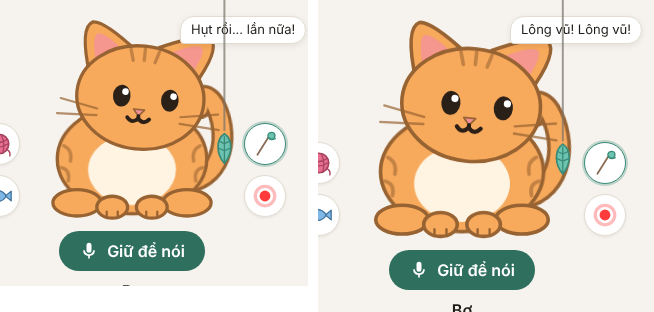
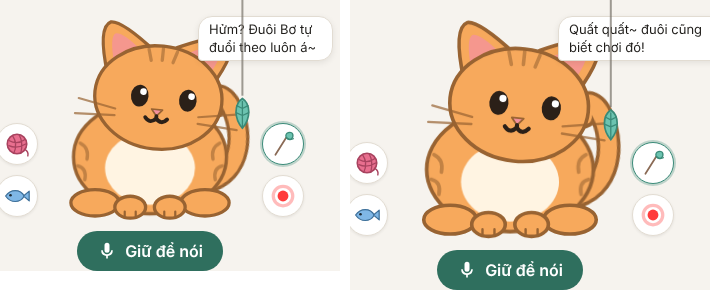
Rà soát giai đoạn 84: chụp ảnh quất đuôi, thêm việc giai đoạn 85
Claude-Session: https://claude.ai/code/session_01L1M6Uc55Avbx5hjvRBbRUB

diff --git a/scripts/chup_meo.py b/scripts/chup_meo.py
@@ -24,7 +24,7 @@ from app import config  # noqa: E402
 TRANG_THAI = config.EMOTIONS + ["ngu"]
 # (Ảnh chụp cả trang cho PROGRESS.md đừng đặt tên meo-<tư thế>.png: script này sẽ ghi đè.)
 TRANG_THAI_NHO = ["ngap", "liem", "cho", "lan", "mung", "bep", "hong", "nghe", "nguoc-long", "dap-tay", "rua-mat", "chong-mat",
-                  "hat-xi", "boop", "nung-ma-trai", "be", "dinh-sua", "rinh", "vo-rinh", "nhoi", "chop-cham", "quo-trai", "om-len", "ngo-chan", "khoe", "theo-len", "ke-ke", "nhot-long", "ngoai-duoi"]
+                  "hat-xi", "boop", "nung-ma-trai", "be", "dinh-sua", "rinh", "vo-rinh", "nhoi", "chop-cham", "quo-trai", "om-len", "ngo-chan", "khoe", "theo-len", "ke-ke", "nhot-long", "ngoai-duoi", "quat-duoi"]
 
 
 def ban_ngay(pg):

diff --git a/PROGRESS.md b/PROGRESS.md
@@ -5,9 +5,10 @@
 - **Góp ý:** ghi vào file `FEEDBACK.md`, phiên sau Claude sẽ xử lý trước.
 - **Lấy bản mới về máy:** `git pull` trong thư mục dự án rồi chạy lại `run.bat`.
 
-## 2026-10-12 – Giai đoạn 84: giọng cho trò đuôi đuổi lông vũ
+## 2026-10-12 – Giai đoạn 84 xong: giọng cho trò đuôi đuổi lông vũ
 - Bật "Giọng nói": lần đầu tiên trong ngày lông vũ quét qua đuôi, Bơ chắc chắn nói và đọc to (ví dụ "Đuôi Bơ bắt lông vũ nè!"); các lần sau lâu lâu mới hiện chữ, không đọc (đã thử trên trình duyệt: lần 2 không đọc). 444 test qua hết.
 - Sửa lỗi cũ (giai đoạn 82): ở trò len chạm đuôi, lệnh "đang chơi, đừng ngủ gật" lỡ nằm trong dòng chú thích nên không chạy → Bơ có thể nằm bẹp/ngủ gật ngay sau khi len chạm đuôi. Giờ chạy đúng, có test chặn lỗi kiểu này.
+- Rà soát: `scripts/thu_cham.py` đạt hết sau khi sửa. Bộ ảnh `docs/anh/meo-tat-ca.png` có thêm "quat-duoi"; ảnh `docs/anh/long-vu-quet-duoi.png` chụp lại lúc đuôi đang quất trên trang thật (điện thoại, máy tính): đuôi không bị cắt, câu nói không đè lên mèo. 444 test qua hết.
 **Tân cần thử:** bật Giọng nói, bật lông vũ, quét lông lên xuống thật nhanh qua đuôi Bơ.
 
 ## 2026-10-12 – Giai đoạn 83 xong: đuôi đuổi lông vũ

diff --git a/TASKS.md b/TASKS.md
@@ -440,7 +440,11 @@
 
 ## Giai đoạn 84 – Ý tưởng tiếp (Claude tự thêm, trong hướng mèo/chạm/giọng)
 - [x] Bật "Giọng nói": lần "Đuôi Bơ bắt lông vũ nè!" đầu tiên trong ngày Bơ đọc to; các lần sau chỉ hiện chữ
-- [ ] Rà soát giai đoạn 84, sửa lỗi tìm được
+- [x] Rà soát giai đoạn 84, sửa lỗi tìm được
+
+## Giai đoạn 85 – Ý tưởng tiếp (Claude tự thêm, trong hướng mèo/chạm/giọng)
+- [ ] Cuộn len lăn tới chạm đuôi khi Bơ đang nằm bẹp (lười) → chỉ đuôi khẽ vẫy một cái, Bơ không thèm dậy, hé một mắt "Ừm... ai đó?" (mèo lười)
+- [ ] Rà soát giai đoạn 85, sửa lỗi tìm được
 
 ## Để sau (tạm dừng theo HUONG_PHAT_TRIEN.md)
 Giai đoạn 45 – Chuyện hỏi thăm rõ ràng hơn (chỉ làm khi Tân báo lỗi liên quan):
